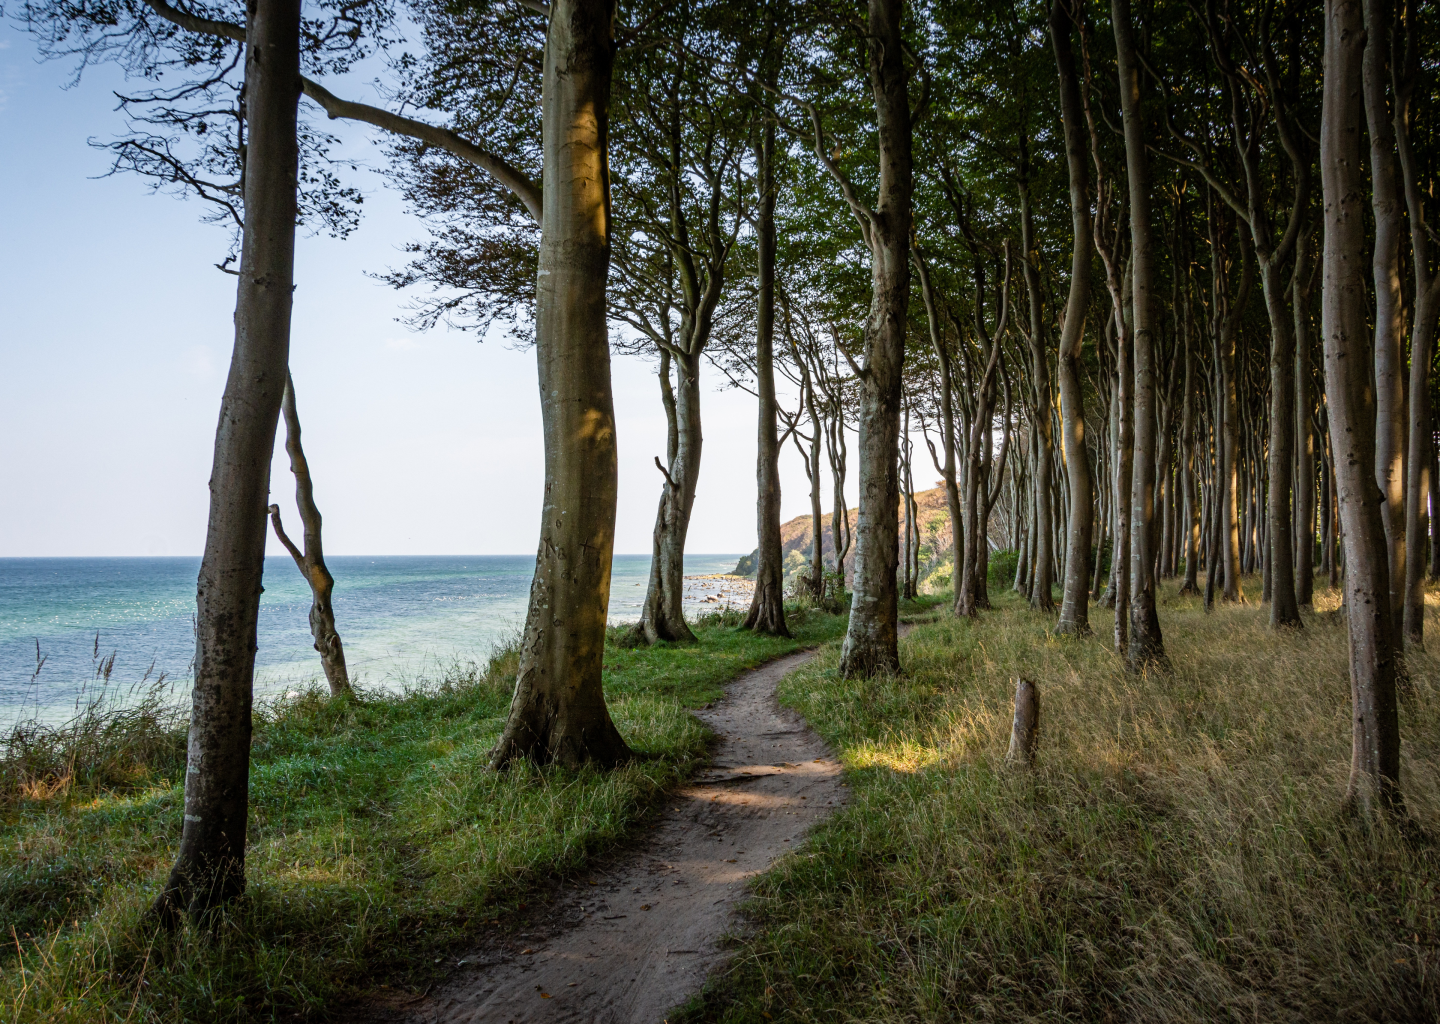
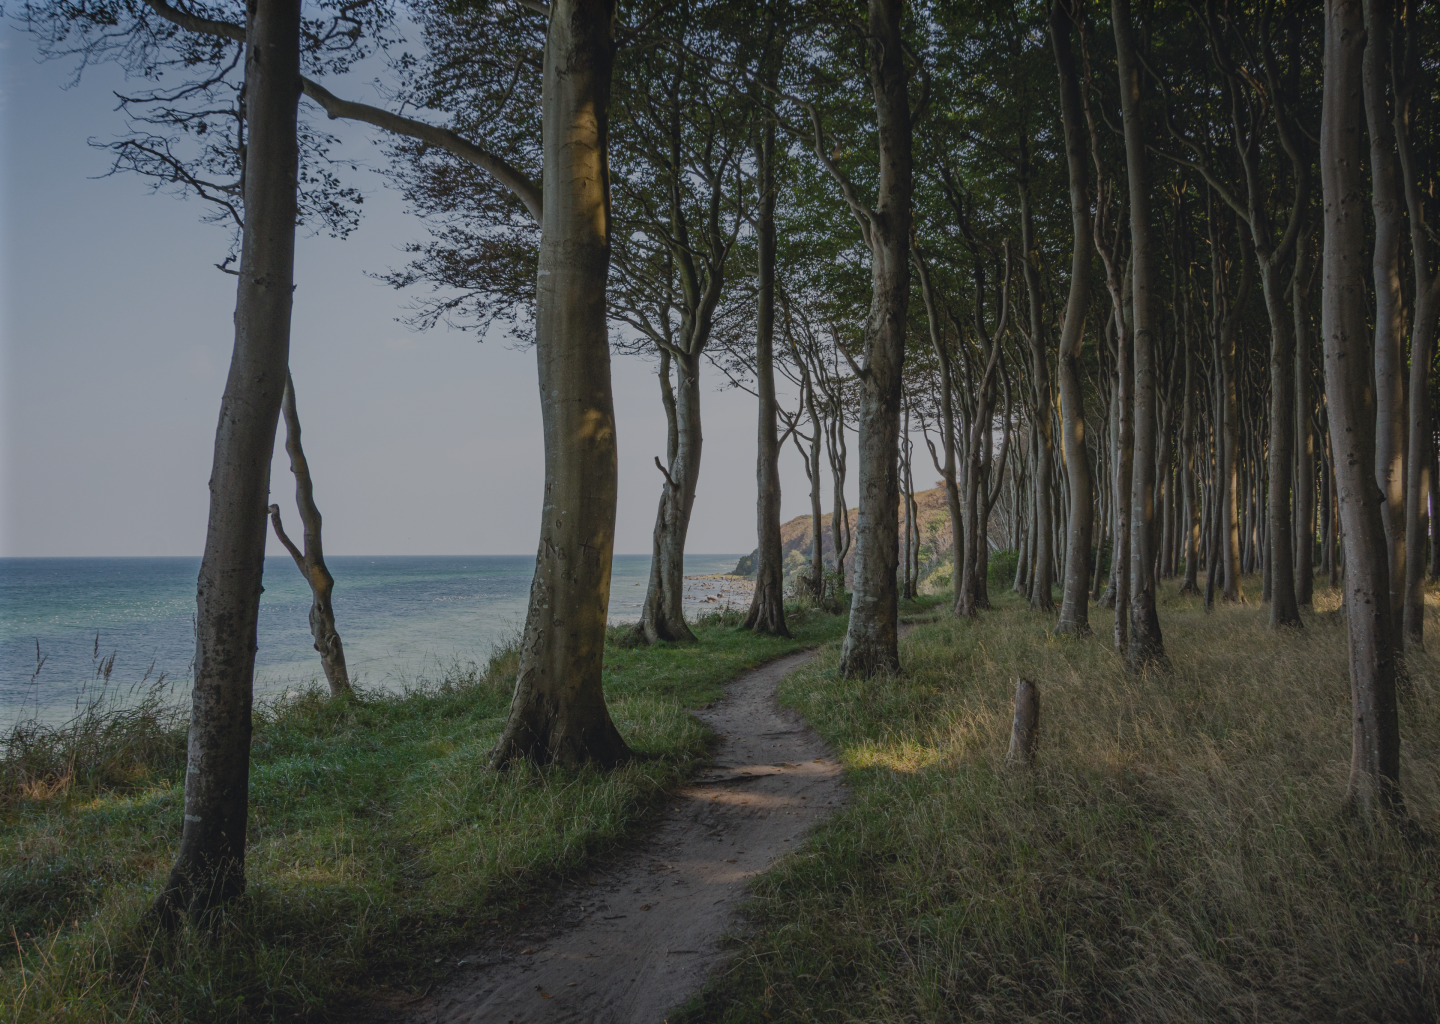
Change shadow on background

diff --git a/styles/style.css b/styles/style.css
@@ -1,15 +1,14 @@
 body {
-
-}
-
-.main {
-    
-    display: flex;
-    align-items: flex-start;
-    justify-content: center;
-    flex-direction: column;
-    min-height: 100vh;
+    height: 100vh;
+    background-image: url("../img/gallery/bg-01.png");
+    background-repeat: no-repeat;
+    background-size: cover;
     font-family: 'Poppins', 'sans-serif';
+    font-size: 20px;
+    display: flex;
+    flex-direction: column;
+    color: #E9ECEF;
+    margin: 0px 120px;
 }
 
 /* TOP SECTION */
@@ -18,7 +17,23 @@ body {
     display: flex;
     flex-flow: row nowrap;
     justify-content: space-between;
-    margin: 26px 100px;
+    margin: 34px 0px;
+}
+
+/* nav */
+.links {
+
+}
+.links__list {
+    display: flex;
+    list-style: none;
+    justify-content: space-between;
+    width: 400px;
+}
+.link {
+    text-decoration: none;
+    color: #E9ECEF;
+    font-weight: bold;
 }
 
 /* logo */
@@ -31,17 +46,8 @@ body {
 }
 .logo__text {
     margin-left: 16px;
-}
-
-/* nav */
-.links {
-
-}
-.links__list {
-
-}
-.link {
-
+    font-size: 24px;
+    font-weight: bold;
 }
 
 /* H1 - PAGE TITLE */
@@ -49,24 +55,114 @@ body {
 
 }
 .website-title__heading {
+    font-family: 'Lobster', 'sans-serif';
+    text-align: center;
+    font-size: 62px;
+    letter-spacing: 4px;
+    background: linear-gradient(0deg, rgba(255, 255, 255, 0.25) 8.41%, rgba(255, 255, 255, 0.75) 53.25%, rgba(255, 255, 255, 0.25) 100%);
+    -webkit-background-clip: text;
+    -webkit-text-fill-color: transparent;
+}
+
+.main {
+    display: grid;
+    grid-template-columns: 1fr 1fr;
+}
+
+/* SECTION with place descripton */
+
+/* places section */
+.places {
 
 }
 
+/* 01 */
+.place-01 {
+    width: 616px;
+    display: flex;
+    flex-direction: column;
+    margin-top: -30px;
+}
+.place-01__heading {
+    font-size: 60px;
+    font-weight: bold;
+    display: flex;
+    align-items: center;
+    letter-spacing: 2px;
+}
+.place-01__heading--number {
+    margin-right: 52px;
+    text-align: left;
+    background-color: #03045E;
+    border-radius: 16px;
+    width: 108px;
+    min-height: 70px;
+    text-align: center;
+}
+.place-01__content {
+    margin-top: -70px;
+    letter-spacing: .8px;
+    text-align: justify;
+    line-height: 26px;
+}
+.place-01__explore-btn {
+    width: 200px;
+    display: flex;
+    margin: 36px auto;
+    background: linear-gradient(96.98deg, rgba(3, 4, 94, 0.75) 0%, #03045E 49.48%, rgba(3, 4, 94, 0.75) 100%);
+    border-radius: 16px;
+    text-decoration: none;
+    color: #ffffff;
+    font-weight: bold;
+    font-size: 24px;
+}
 
-/* ARTICLE with place descripton */
-.place-descripton {
+.place-01__explore-btn p {
+    margin-left: 18px;
+    margin-right: 40px;
+}
+/* 02 */
+
+.place-02 {
+    display: none;
+}
+.place-02__heading {
 
 }
-.place-descripton__heading {
+.place-02__content {
 
 }
-.place-descripton__content {
-
-}
-.explore-btn {
+.place-02__explore-btn {
 
 }
 
+/* 03 */
+.place-03 {
+    display: none;
+}
+.place-03__heading {
+
+}
+.place-03__content {
+
+}
+.place-03__explore-btn {
+
+}
+
+/* 04 */
+.place-04 {
+    display: none;
+}
+.place-04__heading {
+
+}
+.place-04__content {
+
+}
+.place-04__explore-btn {
+
+}
 
 /* SLIDER */
 

diff --git a/index.html b/index.html
@@ -22,10 +22,17 @@
     <!-- loading styles -->
     <link rel="stylesheet" href="styles/normalize.css" />
     <link rel="stylesheet" href="styles/style.css" />
+    <link rel="stylesheet" href="styles/places.css" />
+
     <!-- loading fonts -->
     <link rel="preconnect" href="https://fonts.gstatic.com" />
     <link
       href="https://fonts.googleapis.com/css2?family=Poppins:wght@400;500;700&display=swap"
+      rel="stylesheet"
+    />
+    <link rel="preconnect" href="https://fonts.gstatic.com" />
+    <link
+      href="https://fonts.googleapis.com/css2?family=Lobster&display=swap"
       rel="stylesheet"
     />
     <!-- loading js file -->
@@ -51,17 +58,62 @@
     </article>
 
     <main class="main">
-      <article class="place-descripton">
-        <h2 class="place-descripton__heading"></h2>
-        <p class="place-descripton__content"></p>
-        <button class="explore-btn">
-          <p>Explore</p>
-          <img
-            src="img/arrow-right.svg"
-            alt="Icon of arrow directed to right"
-          />
-        </button>
-      </article>
+      <section class="places">
+        <article class="place-01">
+          <h2 class="place-01__heading">
+            <p class="place-01__heading--number">01.</p>
+            Baltic Sea
+          </h2>
+          <p class="place-01__content">
+            The Baltic Sea is an arm of the Atlantic Ocean, enclosed by Denmark,
+            Estonia, Finland, Latvia, Lithuania, Sweden, northeast Germany,
+            Poland, Russia and the North and Central European Plain.
+          </p>
+          <a href="#" class="place-01__explore-btn">
+            <p>Explore</p>
+            <img
+              src="img/arrow-right.svg"
+              alt="Icon of arrow directed to right"
+            />
+          </a>
+        </article>
+
+        <article class="place-02">
+          <h2 class="place-02__heading"></h2>
+          <p class="place-02__content"></p>
+          <button class="place-02__explore-btn">
+            <p>Explore</p>
+            <img
+              src="img/arrow-right.svg"
+              alt="Icon of arrow directed to right"
+            />
+          </button>
+        </article>
+
+        <article class="place-03">
+          <h2 class="place-03__heading"></h2>
+          <p class="place-03__content"></p>
+          <a href="#" class="place-03__explore-btn">
+            <p>Explore</p>
+            <img
+              src="img/arrow-right.svg"
+              alt="Icon of arrow directed to right"
+            />
+          </a>
+        </article>
+
+        <article class="place-04">
+          <h2 class="place-04__heading"></h2>
+          <p class="place-04__content"></p>
+          <button class="place-04__explore-btn">
+            <p>Explore</p>
+            <img
+              src="img/arrow-right.svg"
+              alt="Icon of arrow directed to right"
+            />
+          </button>
+        </article>
+      </section>
 
       <section class="slider">
         <div class="slide-1">
